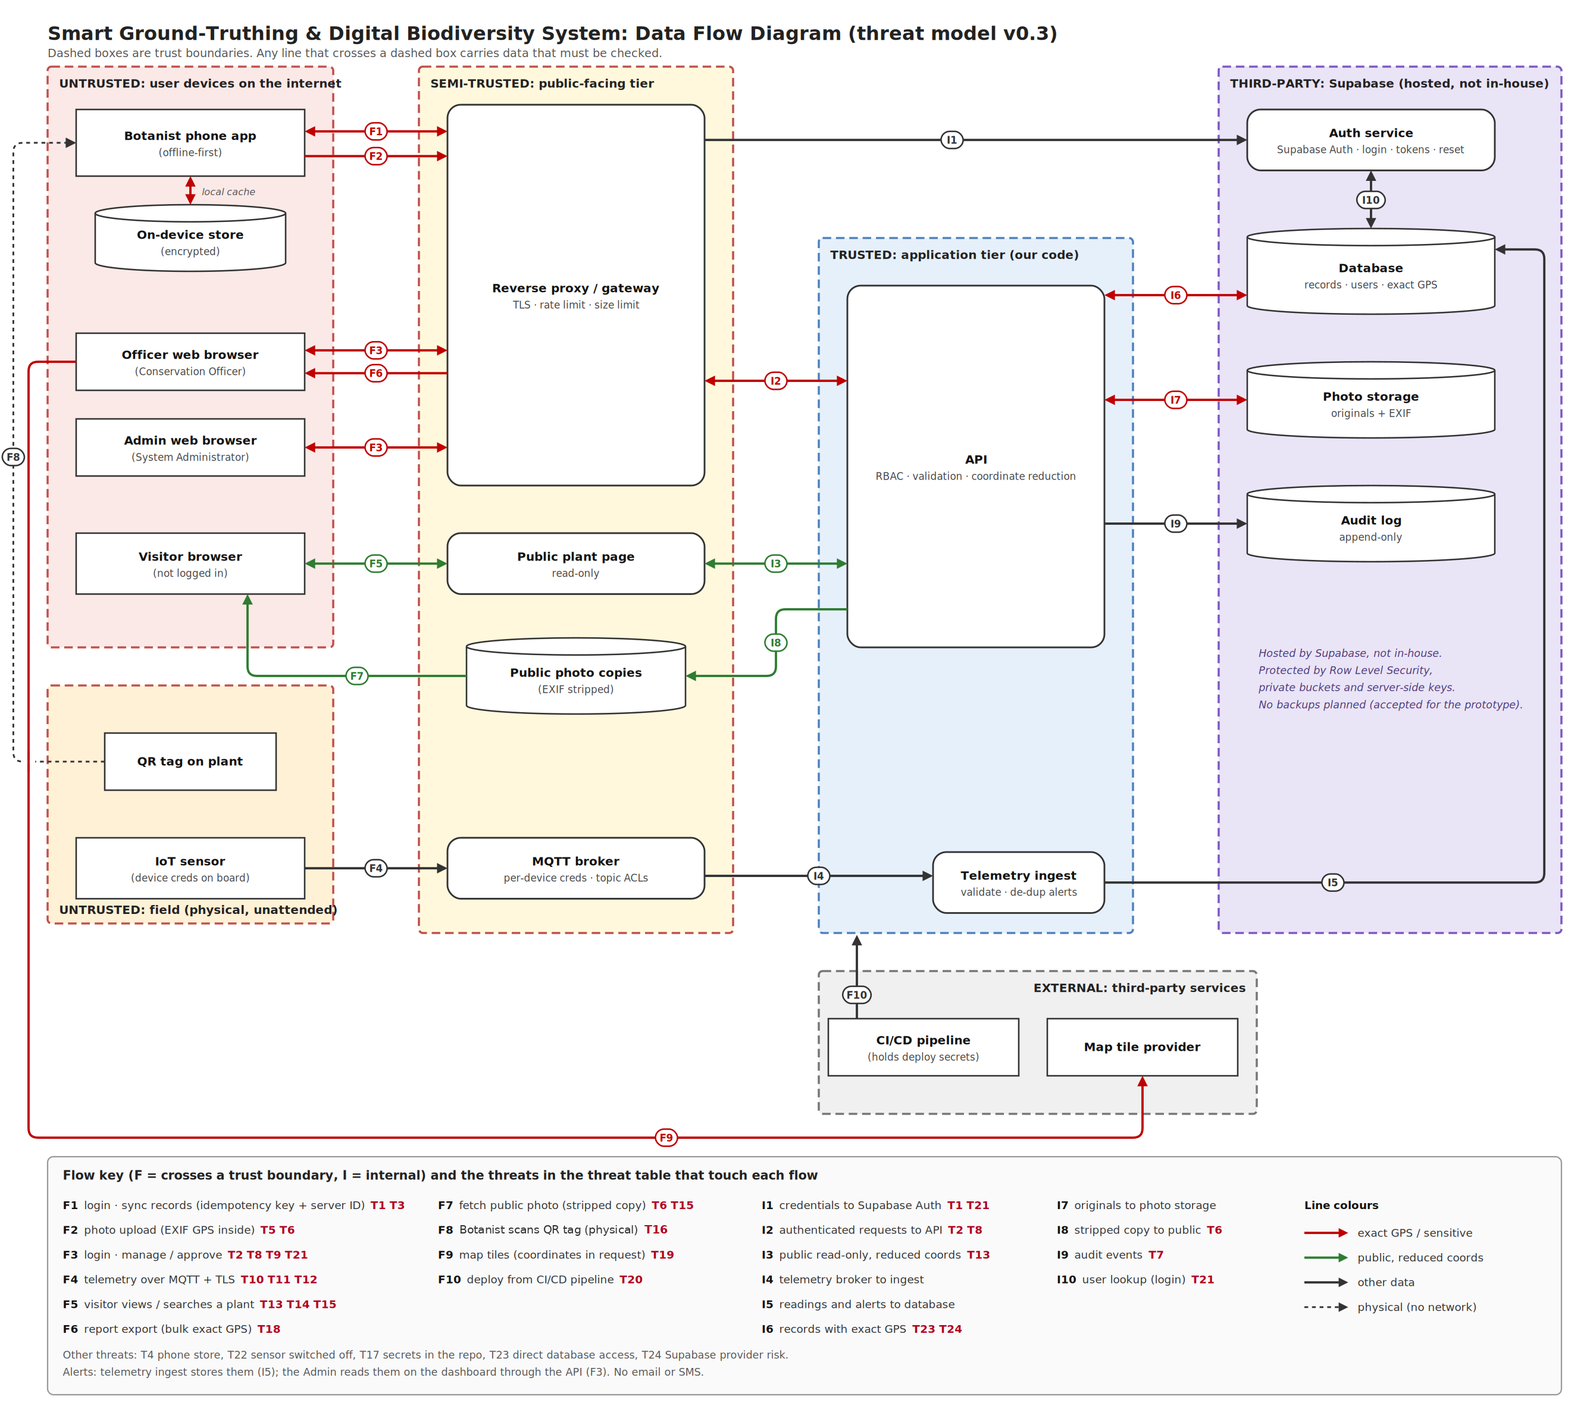
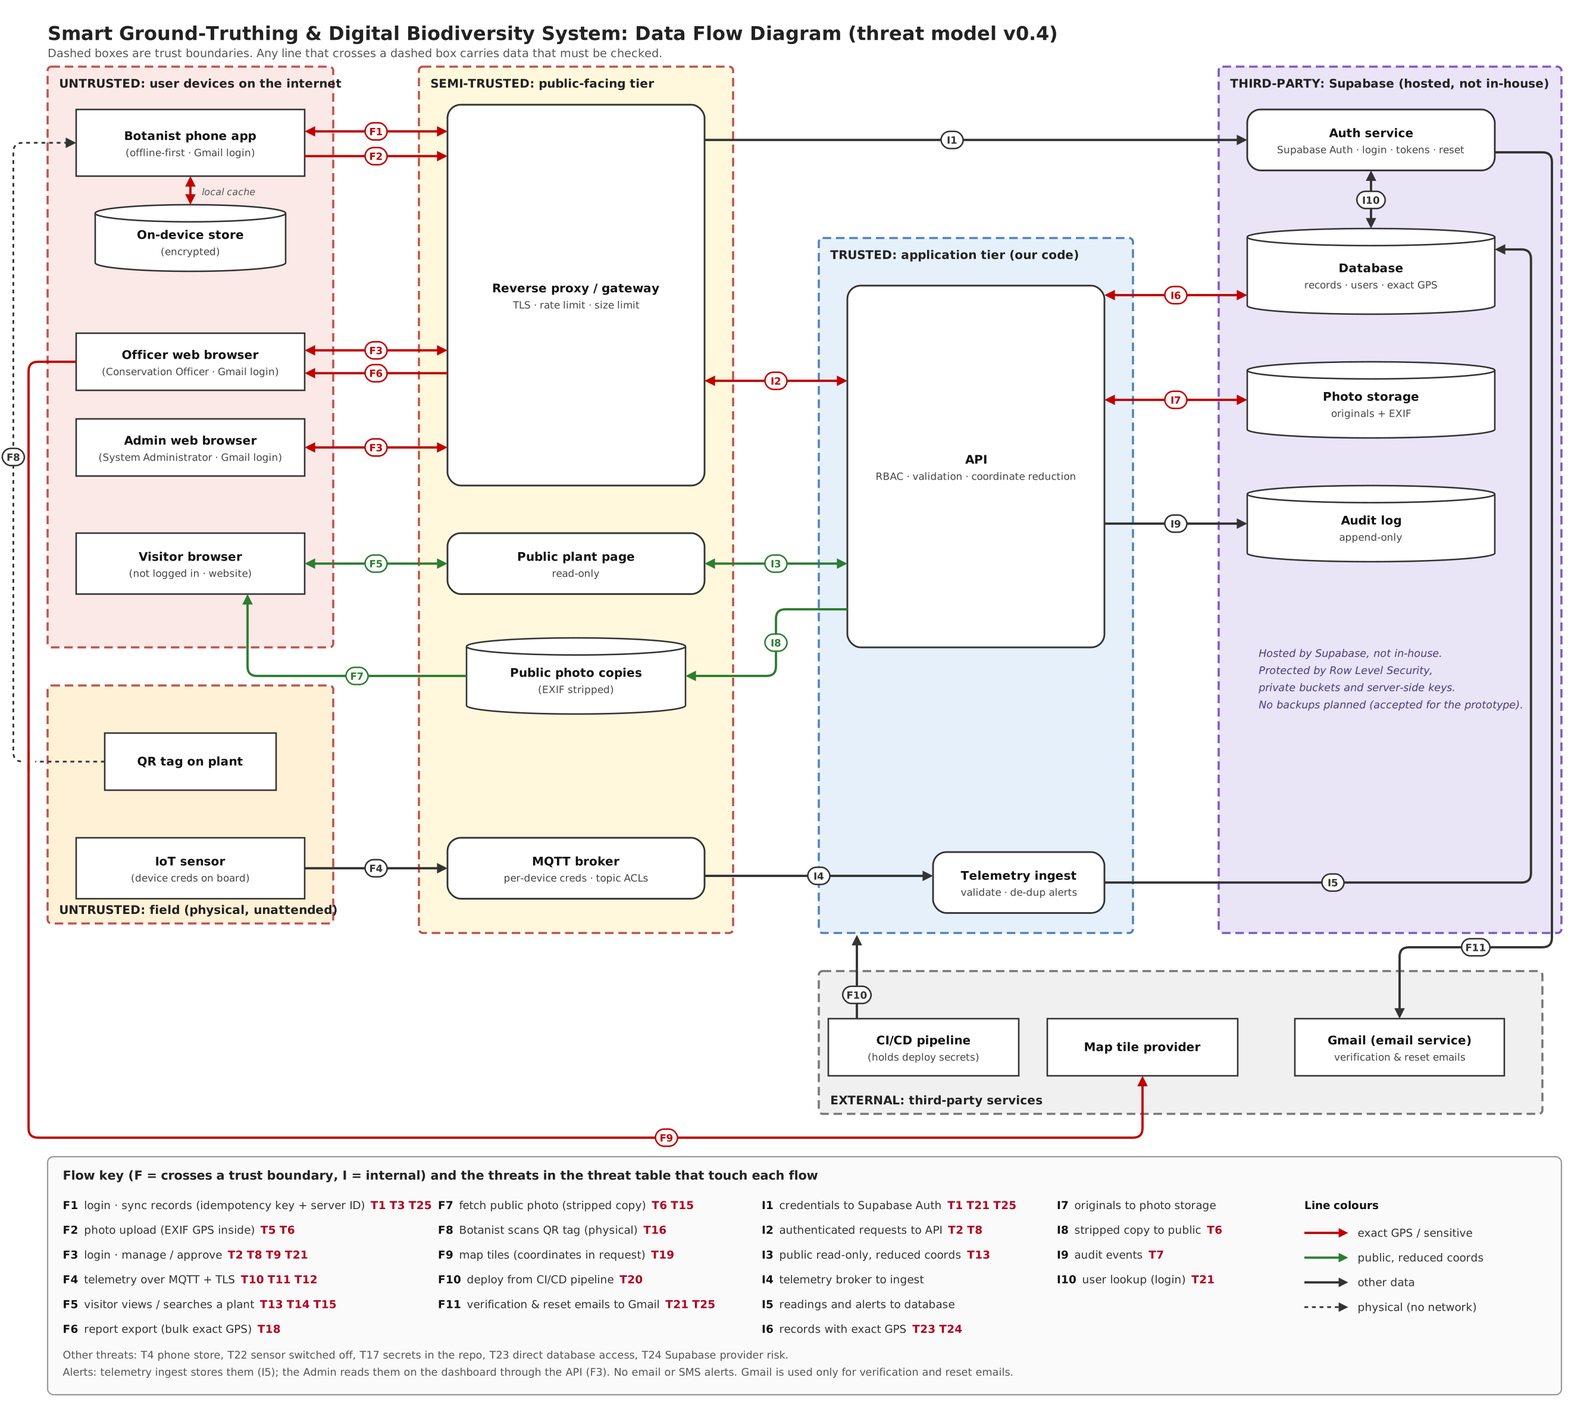
updated (add gmail)
All staff login using gmail

diff --git a/docs/security/threat-modelling.md b/docs/security/threat-modelling.md
@@ -1,33 +1,35 @@
 # Threat Model: Smart Ground-Truthing and Digital Biodiversity System
 
-**Ticket:** CTIP-18 (Sprint 1) | **Owner:** Security testing lead | **Status:** Draft v0.3
-**Purpose:** First "assess" step of the SSDLC. Find what can go wrong *before* the code is written, so the developers building login and permissions know what to protect, and so the Sprint 2 test plan (CTIP-36) has a list of things to test. It supports the Verification step in the project proposal (Table 3) and risks R5 and R11 in the risk register.
+**Ticket:** CTIP-18 (Sprint 1) | **Owner:** Security testing lead | **Status:** Draft v0.4
+**Purpose:** First "assess" step of the SSDLC. Find what can go wrong *before* the code is written, so the developers building login and permissions know what to protect, and so the Sprint 2 test plan (CTIP-36) has a list of things to test. It is the Design-step threat model in the proposal's SSDLC table (Table 3), and it feeds the Verification step and risks R5 and R11 in the risk register.
 
 ---
 
 ## 1. Scope and assumptions
 
-**In scope:** Botanist mobile app (offline-first sync), web app for officers and administrators, public Visitor plant page (website), API, authentication (password login), database, photo storage, IoT sensor node over MQTT, alerts shown on the Admin dashboard, deployment pipeline.
+**In scope:** Botanist mobile app (offline-first sync), web app for officers and administrators, public Visitor plant page (website), API, authentication (Gmail address and password login), database, photo storage, IoT sensor node over MQTT, alerts shown on the Admin dashboard, deployment pipeline.
 
 **Out of scope** (as in the proposal and project scope): automatic species identification, connection to SFC or UNESCO databases, real field deployment of sensors (prototype only), iOS testing, multi-factor authentication, email/SMS alerts, database backups.
 
-**Technology (from the proposal):** React + Vite (web), React Native + Expo with SQLite (mobile), Node.js + Express (REST API), Supabase Auth with JWT, PostgreSQL and Object Storage on Supabase, Eclipse Mosquitto (MQTT over TLS), ESP32-CAM sensor node, Leaflet + OpenStreetMap (maps, assumed, provider not decided yet), GitHub + CI/CD pipeline.
+**Technology (from the proposal):** React + Vite (web), React Native + Expo with SQLite (mobile), Node.js + Express (REST API), Supabase Auth with JWT, PostgreSQL and Object Storage on Supabase, Eclipse Mosquitto (MQTT over TLS), ESP32-CAM sensor node, Leaflet + OpenStreetMap (maps, assumed, provider not decided yet), GitHub + CI/CD pipeline. Staff accounts (Botanist, Officer, Admin) are identified by their **Gmail address**, and Supabase Auth sends verification and password-reset emails to it.
 
 **Supabase** is a hosted third-party Backend-as-a-Service (BaaS). We do not host the database in-house, so the data tier is **not** a private network. It is protected by Row Level Security, private buckets and server-side keys.
+
+**Gmail** is a Google service we do not control. We use it only as the staff member's mailbox, where the verification and password-reset emails arrive. Anyone can create a Gmail address, so an @gmail.com address does **not** prove that someone is staff. The Admin must approve each account and role.
 
 **Roles (4):**
 
 | Role | Can do | Trust level |
 |---|---|---|
-| Botanist | Scan QR, register plants, add details/photos/GPS, sync, view own submissions | Logged in |
-| Conservation Officer | Add/edit/delete species, approve or reject observations, search, export reports, view maps | Logged in, high privilege on data |
-| Admin (System Administrator) | Manage users and roles, register sensor nodes, monitor dashboard and alerts, review audit logs | Highest privilege |
+| Botanist | Scan QR, register plants, add details/photos/GPS, sync, view own submissions | Logged in (Gmail address + password) |
+| Conservation Officer | Add/edit/delete species, approve or reject observations, search, export reports, view maps | Logged in (Gmail address + password), high privilege on data |
+| Admin (System Administrator) | Manage users and roles, approve new accounts, register sensor nodes, monitor dashboard and alerts, review audit logs | Highest privilege (Gmail address + password) |
 | Visitor | View the public plant page and search published species on the website. | **Not logged in. Fully untrusted** |
 
 **Assets we must protect (most valuable first):**
 1. Exact GPS location of endangered/rare plants (poaching risk)
 2. Integrity of plant records and sensor readings (data must be true)
-3. User accounts, passwords, tokens
+3. User accounts, Gmail addresses (personal data), passwords, tokens
 4. Photos and uploaded files (photos can contain GPS in their EXIF data)
 5. Availability of the API, the public page and the alerts
 
@@ -36,7 +38,9 @@
 - Server-assigned IDs and idempotency keys are used for offline sync.
 - Coordinate reduction happens at the API layer, not in the client (risk R11).
 - **Only the Botanist scans QR tags**, through the mobile app. Visitors reach the public plant page through the website (search or link), not by scanning a tag.
-- Login is **password only** (no MFA for the prototype), so password strength, lockout and session handling matter more.
+- Staff log in with their **Gmail address and a password** (no MFA for the prototype, and no "Sign in with Google"), so password strength, lockout and session handling matter more.
+- New accounts get **no role** until an Admin approves them.
+- The only emails the system sends are verification and password-reset emails. No plant data or coordinates are ever emailed.
 - Alerts are stored by telemetry ingest and read by the Admin on the dashboard. There is no email or SMS.
 - **No backups are planned** for the prototype (accepted risk, see T24).
 - The Supabase provider is trusted to run its platform, but we are responsible for how we configure it.
@@ -45,7 +49,7 @@
 
 ## 2. Data flow diagram (DFD)
 
-![Data flow diagram](..//architecture/threat-model-dfd-v3.png)
+![Data flow diagram](../architecture/threat-model-dfd-v3.png)
 
 **How to read it.** Dashed boxes are **trust boundaries**. Any arrow that crosses from one box to another carries data that must be checked. Line colours: **red** = exact GPS or other sensitive data, **green** = public data with reduced coordinates only, **black** = other data, **dotted** = physical action (the Botanist scanning a tag). Most of the threats below come from one question: *how do we stop red data from leaking onto a green path?*
 
@@ -60,15 +64,15 @@
 | Public-facing tier | Reverse proxy / gateway (TLS, rate limit, size limit), public plant page, public photo copies, MQTT broker | Semi-trusted |
 | Application tier (our code) | API (RBAC, validation, coordinate reduction), telemetry ingest | Trusted |
 | Third-party: Supabase (hosted, not in-house) | Auth service, database (exact GPS), photo storage (originals with EXIF), audit log | Third party. Protected by Row Level Security, private buckets and server-side keys |
-| External third-party services | CI/CD pipeline, map tile provider | External |
+| External third-party services | CI/CD pipeline, map tile provider, Gmail (email service) | External |
 
 **Flows that cross a trust boundary (F)**
 
 | ID | Flow |
 |---|---|
-| F1 | Botanist app to gateway: login and sync records (HTTPS). Each record carries a server-assigned ID and an idempotency key |
+| F1 | Botanist app to gateway: login (Gmail address + password), sign-up and sync records (HTTPS). Each record carries a server-assigned ID and an idempotency key |
 | F2 | Botanist app to gateway: photo upload (EXIF GPS inside) |
-| F3 | Officer and Admin browsers to gateway: login, manage and approve (the Admin also reads alerts here) |
+| F3 | Officer and Admin browsers to gateway: login (Gmail address + password), manage and approve (the Admin also reads alerts here) |
 | F4 | IoT sensor to MQTT broker: telemetry (MQTT + TLS) |
 | F5 | Visitor to public plant page: view and search on the website (HTTPS) |
 | F6 | API to Officer browser: report export (bulk exact GPS) |
@@ -76,6 +80,7 @@
 | F8 | Physical: the Botanist scans the QR tag on the plant with the phone app (Visitors do not scan tags) |
 | F9 | Officer browser to map tile provider (coordinates in the request) |
 | F10 | CI/CD pipeline to application tier: deploy (holds deploy secrets) |
+| F11 | Supabase Auth to Gmail: verification and password-reset emails (the staff member opens the link from their Gmail) |
 
 **Internal flows (I).** These are labelled "I" because they are our own system talking to itself, but **I1 and I5 to I10 go to Supabase, so they do cross into a third-party zone** and should still be treated as boundary crossings.
 
@@ -100,13 +105,13 @@
 
 | ID | Where | STRIDE | What could go wrong | L | I | Risk | Mitigation |
 |---|---|---|---|---|---|---|---|
-| T1 | F1, F3, I1 | S | Stolen or guessed password used to log in and submit fake records. Password is the only login factor | M | M | Med | Strong password rules, rate-limit and lock out repeated logins at the gateway, short-lived JWT with refresh, revoke sessions on logout, role change or account deactivation |
+| T1 | F1, F3, I1 | S | Stolen, guessed or reused password used to log in and submit fake records. Staff log in with a Gmail address, and the password is the only login factor | M | M | Med | Strong password rules and reject common passwords, tell staff to use a password they do not use anywhere else (including their Gmail), rate-limit and lock out repeated logins at the gateway, short-lived JWT with refresh, revoke sessions on logout, role change or account deactivation |
 | T2 | F3, I2 | E | Botanist edits a request to set their own role to admin | M | H | **High** | Role comes from server-controlled data (roles table or Supabase `app_metadata`), never from the request body or user-editable `user_metadata`; check role on every endpoint; deny by default |
 | T3 | F1 sync | T | Replayed or duplicated sync requests create duplicate or forged records; two devices overwrite each other | M | M | Med | Idempotency key per record, server-assigned IDs, server sets author and timestamp, validate every field, revalidate cached offline session before sync |
 | T4 | Phone | I | Lost or stolen phone exposes cached records, exact GPS and tokens | M | H | **High** | Encrypt the on-device SQLite store with a key kept in the secure keystore, store tokens in secure storage, cache only what is needed, clear on logout, deactivate account to cut sync |
 | T5 | F2 | T/E | Malicious file renamed to .jpg, or huge file, uploaded | M | H | **High** | Check file type by content not extension, size limit at gateway, re-encode image, random filenames, private storage bucket |
 | T6 | F2, F7, I8 | I | Photo EXIF data contains exact GPS and leaks through the public photo | H | H | **Critical** | Create a stripped copy (I8) and serve only that publicly; keep the original in private storage; test that public photos have no GPS |
-| T7 | F3, I9 | R/T | Officer or admin approves, rejects, deletes or exports and there is no record; or someone edits the log to hide it | M | M | Med | Append-only audit log: API account can only insert, never update or delete; log who, what and when for approve, reject, edit, delete, export, role change, alert acknowledgement |
+| T7 | F3, I9 | R/T | Officer or admin approves, rejects, deletes or exports and there is no record; or someone edits the log to hide it | M | M | Med | Append-only audit log: API account can only insert, never update or delete; log who, what and when for approve, reject, edit, delete, export, role change, account approval, alert acknowledgement |
 | T8 | F3, I2 | S/E | Changing a record ID in the URL to view or edit someone else's data (IDOR); botanist edits an already approved record | M | H | **High** | Check ownership and role on every object, not only every page; lock approved records for botanists |
 | T9 | F3, F5 | T | Script or SQL injected through species descriptions, forms or the search box | M | H | **High** | Parameterised queries, output encoding, Content-Security-Policy, input validation |
 | T10 | F4 | S/T | Attacker publishes fake sensor readings to hide a real threat or trigger false alerts | M | H | **High** | Per-device revocable credentials, TLS, topic ACLs (a device can publish only to its own topic), ingest checks device ID matches topic, plausible ranges, timestamps |
@@ -120,21 +125,22 @@
 | T18 | F6 | I | Compromised or careless officer account exports all exact GPS in one report | M | H | **High** | Export only for Officer/Admin, re-enter password before each export, short session, log every export, limit size and frequency, any report meant for sharing uses reduced coordinates |
 | T19 | F9 | I | Map tile requests carry coordinates to a third party, revealing where an endangered plant is when an officer zooms in (OpenStreetMap assumed, provider not decided) | M | M | Med | Cap maximum zoom for endangered records, proxy or self-host tiles, never send exact coordinates in other third-party calls. Re-check if the provider changes |
 | T20 | F10 | T/I | CI/CD pipeline compromised: deploy secrets stolen or malicious code deployed | L | H | Med | Secrets in the pipeline's encrypted store, least-privilege deploy token, merge to main only through reviewed pull requests, npm audit in the pipeline, no secrets printed in logs |
-| T21 | I1, I10, F3 | S/E | Password-reset flow abused to take over an officer or admin account (no MFA to stop it) | M | H | **High** | Single-use, short-lived reset tokens, same error message whether or not the email exists, rate limit, notify user on reset, require current password for sensitive actions |
+| T21 | I1, I10, F3, F11 | S/E | Password-reset flow abused to take over an officer or admin account. The reset link goes to the staff member's Gmail, so a hacked Gmail account means a hacked system account (no MFA to stop it) | M | H | **High** | Single-use, short-lived reset links, same message whether or not the email exists, rate limit, notify the user on reset, require current password for sensitive actions. Ask staff to turn on Google 2-Step Verification on their Gmail (outside our system, but it protects the reset link) |
 | T22 | Sensor (field) | D/T | Sensor powered off, removed or jammed so a poacher goes unnoticed | M | H | **High** | Heartbeat messages, "node offline" alert on the dashboard when heartbeats stop (matches the disconnection requirement), movement alert on the node itself |
 | T23 | Supabase database and storage | E/I | Attacker skips the API and calls the database or storage directly (for example with the public key inside the app), bypassing role checks and coordinate reduction | M | H | **High** | Row Level Security on every table with deny by default, service key never in any client, original photo bucket private, only stripped copies in the public bucket |
 | T24 | Supabase (provider) | A/I | Provider outage, breach or misconfiguration, and **no backup is planned** to recover from. A lost or leaked project loses or exposes all records and exact GPS | M | M | Med | Accepted for the prototype and documented. Check what the Supabase plan already includes, restrict dashboard access (strong passwords, few admins), take a manual export before the demo and keep it encrypted. Revisit if the project goes beyond prototype |
+| T25 | F1, F11, I1 | S/E | Anyone with a Gmail address can create an account or ask for a role, because a Gmail address does not prove someone is staff. Fake accounts submit junk records or try to become an officer or admin | M | H | **High** | New accounts have no role and no access until an Admin approves them; Officer and Admin roles are given only by an Admin to a known staff email; the role is never chosen by the user at sign-up; verify the email before first login; rate-limit sign-ups; audit log records every approval |
 
 ---
 
 ## 4. Summary of risk
 
 - **Critical (2):** T6, T13. Both are the same disaster: *the exact location of an endangered plant reaches the public.* Fix first.
-- **High (13):** T2, T4, T5, T8, T9, T10, T12, T14, T15, T18, T21, T22, T23
+- **High (14):** T2, T4, T5, T8, T9, T10, T12, T14, T15, T18, T21, T22, T23, T25
 - **Medium (8):** T1, T3, T7, T11, T17, T19, T20, T24
 - **Low (1):** T16 (accepted as residual risk)
 
-Many of the serious threats are about exact GPS leaving the system by some route: public page (T13), photo EXIF (T6), export (T18), map tiles (T19), sniffed telemetry (T12) and direct database access (T23).
+Many of the serious threats are about exact GPS leaving the system by some route: public page (T13), photo EXIF (T6), export (T18), map tiles (T19), sniffed telemetry (T12) and direct database access (T23). The Gmail login adds a second group: account takeover through a hacked Gmail (T21) and fake accounts (T25).
 
 ---
 
@@ -145,12 +151,13 @@ Many of the serious threats are about exact GPS leaving the system by some route
 | Proposed ticket | Covers | Suggested owner |
 |---|---|---|
 | Server-side RBAC: deny by default, role never taken from the request, object-level checks | T2, T8 | Auth and access-control developer |
-| Auth hardening: password rules, login rate limit, token expiry and revoke, safe reset flow | T1, T21 | Auth and access-control developer |
+| Auth hardening: Gmail address login, email verification, password rules, login rate limit, token expiry and revoke, safe reset flow | T1, T21 | Auth and access-control developer |
+| Account approval: new accounts have no role until an Admin approves, Officer/Admin roles only for known staff emails, sign-up rate limit | T25 | Auth and access-control developer |
 | Supabase hardening: Row Level Security on all tables, private buckets, service key server-side only | T23 | Supabase / backend developer |
 | Sync endpoint: idempotency key, server-assigned IDs, input validation | T3 | Backend dev |
 | Public view: server-side coordinate reduction, field whitelist, UUID IDs, approved-only | T13, T14 | Backend dev |
 | Upload hardening: content-type check, size limit, EXIF-stripped public copies | T5, T6 | Backend dev |
-| Audit log (insert-only) for approve, reject, edit, delete, export, role change, alert acknowledgement | T7 | Backend dev |
+| Audit log (insert-only) for approve, reject, edit, delete, export, role change, account approval, alert acknowledgement | T7 | Backend dev |
 | Export and map privacy: export controls (re-enter password, limits), capped map zoom | T18, T19 | Backend / web dev |
 | MQTT security: per-device credentials, TLS, topic ACLs, rate limits, heartbeat and offline alert | T10, T11, T12, T22 | IoT dev (not the tester) |
 | Gateway rate limiting and caching on public endpoints | T15 | Backend dev |
@@ -168,7 +175,7 @@ Each threat becomes at least one security test in Sprint 2. Tools follow the pro
 
 | Threat | Test idea |
 |---|---|
-| T1 | Try 20 wrong logins; expect lockout or 429 |
+| T1 | Try 20 wrong logins with a Gmail address; expect lockout or 429; try a common password at sign-up; expect rejection |
 | T2 | Botanist sends `"role":"admin"` (also in user metadata); expect it ignored |
 | T3 | Send the same sync request twice; expect one record |
 | T4 | Inspect app storage on a test Android phone; expect no readable data or tokens |
@@ -188,9 +195,10 @@ Each threat becomes at least one security test in Sprint 2. Tools follow the pro
 | T18 | Visitor and botanist call the export; expect 403; officer export asks for password and appears in log |
 | T19 | Watch network requests at maximum zoom on an endangered plant; expect capped zoom or proxy |
 | T20 | Push to main without a pull request; expect blocked; check secrets are masked in logs |
-| T21 | Reuse and expire a reset link; expect rejected |
+| T21 | Reuse and expire a reset link; expect rejected; request a reset for an unknown email; expect the same message as for a known one |
 | T22 | Switch off a sensor; expect an offline alert on the dashboard within the set time |
 | T23 | Call the database and storage directly with the public key; expect denied |
 | T24 | Review: the no-backup decision is documented; Supabase dashboard access, keys and RLS settings checked; manual export taken before demo |
+| T25 | Sign up with a new Gmail address; expect no access until an Admin approves; send a `role` field at sign-up; expect it ignored; try to log in before verifying the email; expect refusal |
 
 **SSDLC cycle:** Assess (this document) then Remediate (tickets above) then Reassess (re-run the same tests and record before-and-after evidence in the remediation log).
